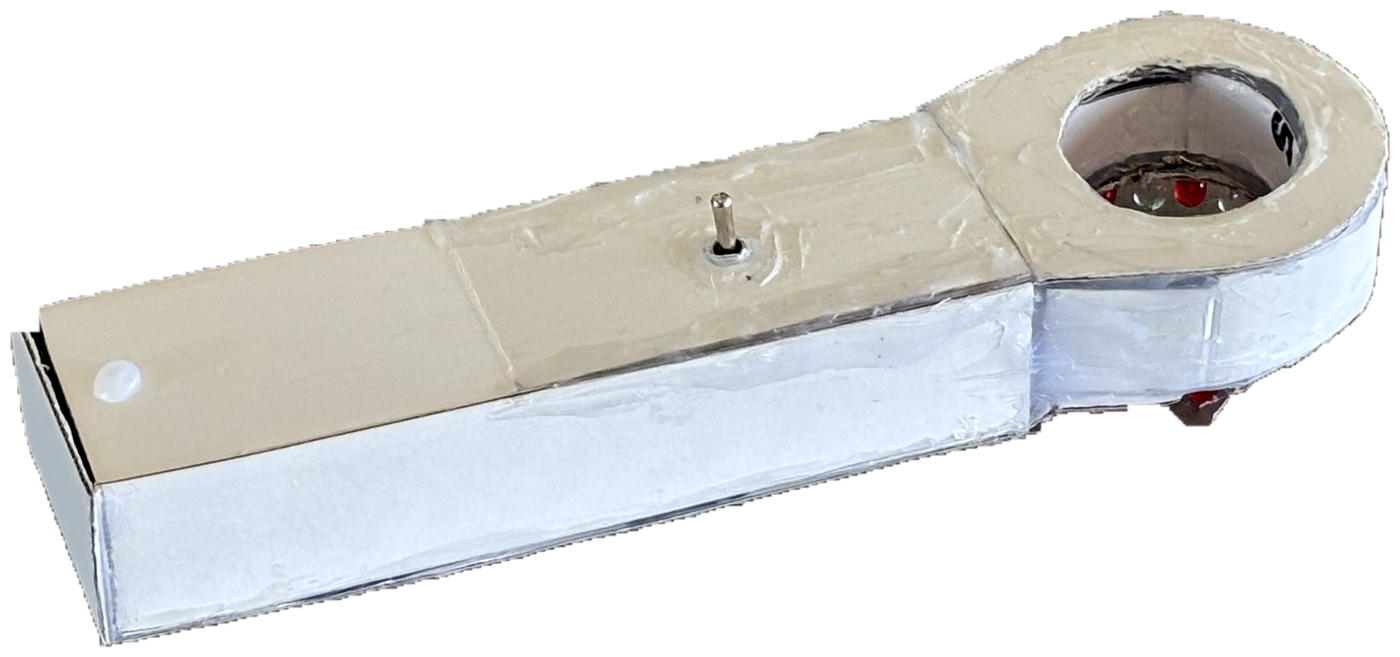
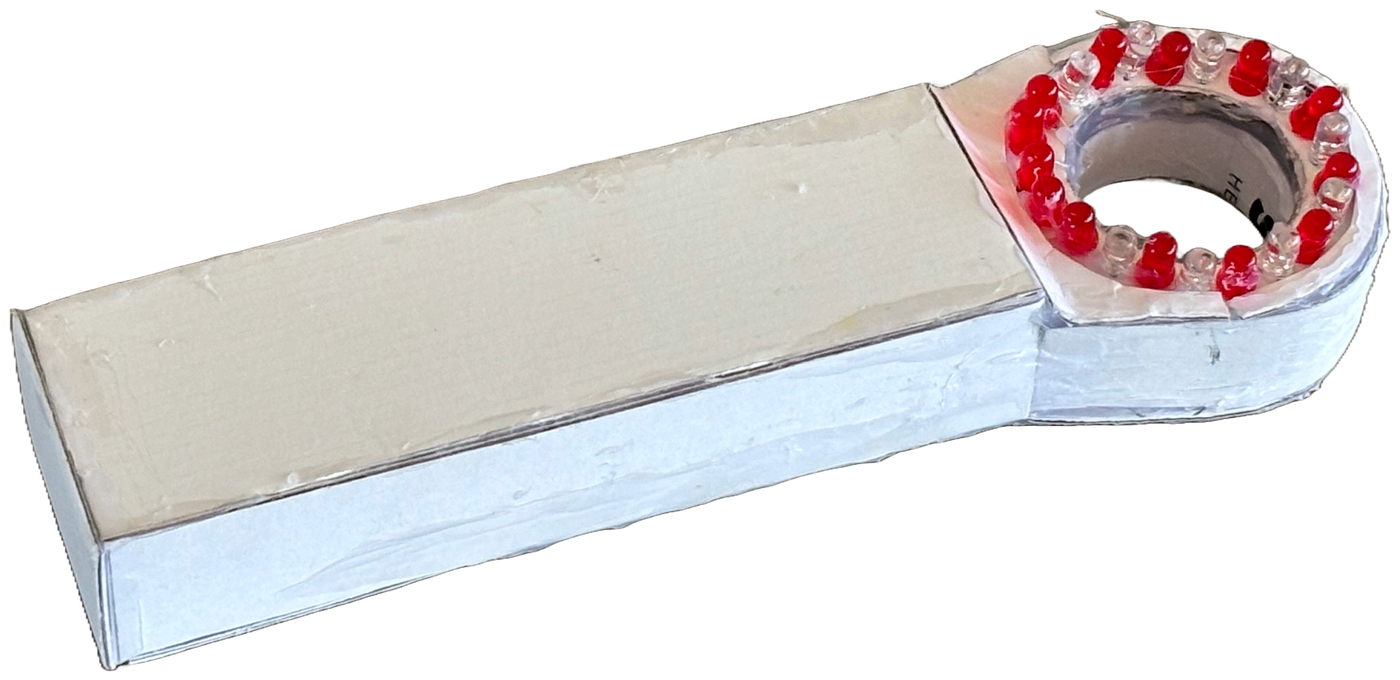
Add files via upload
redo of construction pics

Changed region(s): [[0.0, 0.0, 1.0, 1.0], [0.6143, 0.3349, 0.645, 0.3653]]

diff --git a/vein-finder.html b/vein-finder.html
@@ -109,13 +109,13 @@
   <section>
     <span class="section-num">02</span><strong>CAD, Fusion 360 Assembly</strong>
     <p style="color:var(--ink-soft);">
-      My first CAD models were built around a much more complicated device: a camera with an
-      infrared pass filter, a bank of infrared bulbs, and a system to relay vein images to a
-      computer. Once that setup proved too ambitious for a first prototype, I rebuilt the model
-      around something simpler, a single case housing a ring of near-infrared LEDs, a 9V battery,
-      and a basic on-off switch. Modeling that simpler version in Fusion 360 is where I actually
-      learned most of what I know about CAD now, from sketching the rounded case profile to
-      figuring out how a hinged battery compartment needed to fit together.
+      My initial brainstorming was far more complicated than what I ended up building: a camera
+      with an infrared pass filter, a bank of infrared bulbs, and a system to relay vein images to
+      a computer. Once I actually moved into CAD, I had to shift toward something simpler almost
+      right away, a single case housing a ring of near-infrared LEDs, a 9V battery, and a basic
+      on-off switch. Modeling that simpler version in Fusion 360 is where I actually learned most
+      of what I know about CAD now, from sketching the rounded case profile to figuring out how a
+      hinged battery compartment needed to fit together.
     </p>
     <div class="cad-gallery" id="cad-gallery"></div>
   </section>
@@ -124,8 +124,7 @@
   <section>
     <span class="section-num">03</span><strong>Video Essay</strong>
     <p style="color:var(--ink-soft);">
-      The full build journal, from early prototyping through final testing. Hosted as an unlisted
-      YouTube video, not searchable or listed on the channel, but playable right here.
+      The full build journal, from early prototyping through final testing.
     </p>
     <div class="video-frame">
       <div id="video-facade" style="position:relative;cursor:pointer;" onclick="loadYouTubeVideo()">
@@ -140,14 +139,16 @@
   <section>
     <span class="section-num">04</span><strong>Construction &amp; Final Photos</strong>
     <p style="color:var(--ink-soft);">
-      These photos show the actual build, not a polished final product. The case is hand-cut and
-      glued cardboard, coated in a few layers of white paint to hold its shape, and the LED ring
-      is hand-soldered rather than manufactured. I originally wired it with 940 nm LEDs, not
-      realizing that wavelength sits outside the visible spectrum, which cost me a lot of
-      troubleshooting time and a few burned out bulbs before I switched to 640 nm visible red
-      LEDs, which balance visibility and near-infrared properties much better for a prototype
-      like this. It does not match the brightness or clarity of a commercial device, but it does
-      highlight veins under the right conditions, which was the whole point of building it.
+      This is the final prototype, built to demonstrate functionality rather than to meet
+      medical-grade specifications. The case is hand-cut and glued cardboard, and the paint
+      coating doesn't hold its shape especially well under handling, both signs of a first-pass
+      prototype rather than a manufactured device. The LED ring is hand-soldered too. I originally
+      wired it with 940 nm LEDs, not realizing that wavelength sits outside the visible spectrum,
+      which cost me a lot of troubleshooting time and a few burned out bulbs before I switched to
+      640 nm visible red LEDs, which balance visibility and near-infrared properties much better
+      for a prototype like this. It doesn't match the brightness or clarity of a commercial
+      device, but it does highlight veins under the right conditions, proof that the core concept
+      works.
     </p>
     <div class="cad-gallery" id="construction-gallery"></div>
   </section>

diff --git a/hearing-aid.html b/hearing-aid.html
@@ -72,7 +72,7 @@
   <!-- ============ 2. CIRCUIT-TO-CONFERENCE STORY ============ -->
   <section>
     <span class="section-num">02</span><strong>From Circuit to Conference</strong>
-    <p style="color:var(--ink-soft);max-width:70ch;">
+    <p style="color:var(--ink-soft);">
       My individual contribution to the collaboration, from schematic to a tested prototype to
       presenting the results.
     </p>